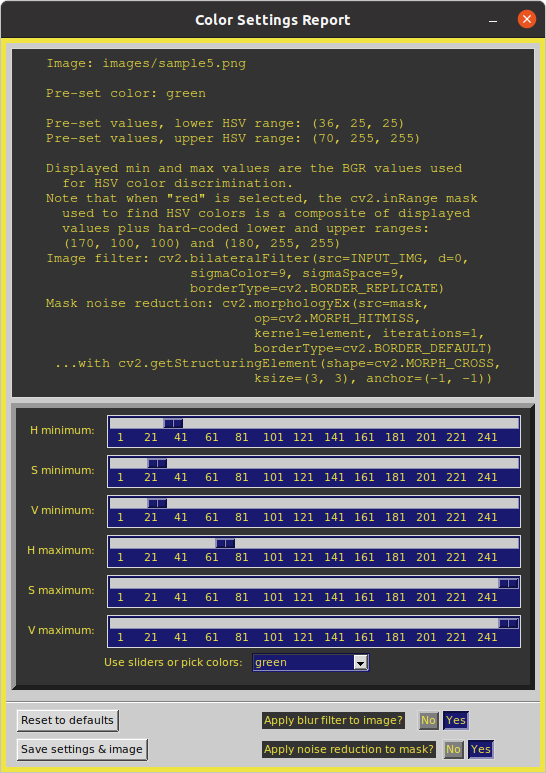
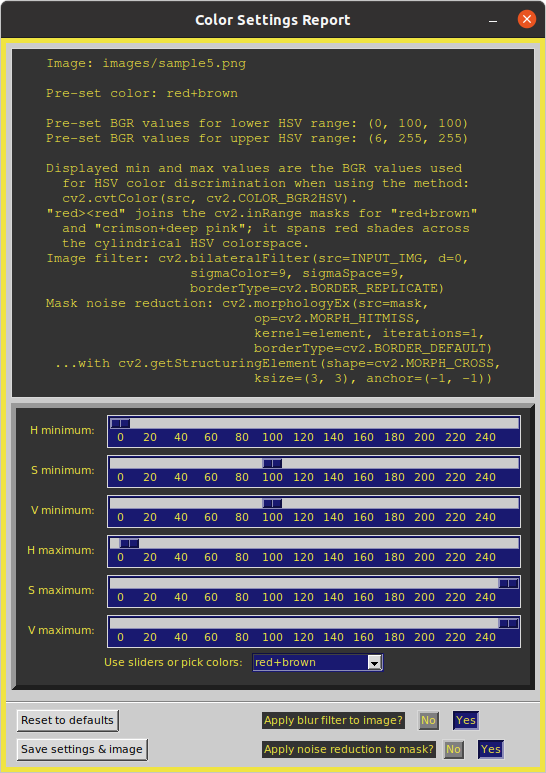
ver. 0.0.33: improve pre-set color discrimination

diff --git a/color_it.py b/color_it.py
@@ -175,8 +175,7 @@ class ProcessImage(tk.Tk):
             lower, upper = const.COLOR_BOUNDARIES[color2find]
             mask = cv2.inRange(self.hsv_img, lower, upper)
 
-            # Note that this 'red' selection includes a red-orange also
-            #  found by 'orange'.  Red color wraps around the HSV boundary,
+            # Red color wraps around the HSV boundary,
             #  so need to merge two range sets to include all likely reds,
             #  as explained in:
             # https://stackoverflow.com/questions/30331944/
@@ -184,12 +183,14 @@ class ProcessImage(tk.Tk):
             # and in:
             # https://answers.opencv.org/question/28899/
             #   correct-hsv-inrange-values-for-red-objects/
-            # The lower boundary set red is defined, now do the upper set
-            #   to straddle over the HSV red break and join the masks.
-            if color2find == 'red':
-                mask_red = cv2.inRange(self.hsv_img,
-                                       const.LOWER_RED, const.UPPER_RED)
-                mask = mask + mask_red
+            if color2find == 'red><red':
+                mask_red1 = cv2.inRange(self.hsv_img,
+                                        const.COLOR_BOUNDARIES['red+brown'][0],
+                                        const.COLOR_BOUNDARIES['red+brown'][1])
+                mask_red2 = cv2.inRange(self.hsv_img,
+                                        const.COLOR_BOUNDARIES['crimson+deep pink'][0],
+                                        const.COLOR_BOUNDARIES['crimson+deep pink'][1])
+                mask = mask_red1 + mask_red2
         else:  # using sliders
             mask = cv2.inRange(self.hsv_img,
                                self.lobound, self.hibound)
@@ -524,7 +525,7 @@ class ImageViewer(ProcessImage):
         self.cbox['choose_color_lbl'].config(text='Use sliders or pick colors:',
                                              **const.LABEL_PARAMETERS)
         self.cbox['choose_color'].config(textvariable=self.cbox_val['color_pref'],
-                                         width=14 + width_correction,
+                                         width=16 + width_correction,
                                          values=self.color_list,
                                          **const.COMBO_PARAMETERS)
         # Set to green at startup, or 1st color in list.
@@ -603,14 +604,14 @@ class ImageViewer(ProcessImage):
 
         # Set/Reset Scale widgets.
         #  Default color range is green.
-        self.slider_val['H_min'].set(36)
-        self.slider_val['S_min'].set(25)
-        self.slider_val['V_min'].set(25)
-        self.slider_val['H_max'].set(70)
+        self.slider_val['H_min'].set(0)
+        self.slider_val['S_min'].set(100)
+        self.slider_val['V_min'].set(100)
+        self.slider_val['H_max'].set(6)
         self.slider_val['S_max'].set(255)
         self.slider_val['V_max'].set(255)
 
-        self.cbox_val['color_pref'].set('green')
+        self.cbox_val['color_pref'].set('red+brown')
 
         self.radio['filter_yes'].select()
         self.radio['redux_yes'].select()
@@ -806,11 +807,11 @@ class ImageViewer(ProcessImage):
             f'Pre-set color: {selected_color}\n\n'
             f'{range_txt}\n'
             'Displayed min and max values are the BGR values used\n'
-            '  for HSV color discrimination.\n'
-            'Note that when "red" is selected, the cv2.inRange mask\n'
-            '  used to find HSV colors is a composite of displayed\n'
-            '  values plus hard-coded lower and upper ranges:\n'
-            f'  {const.LOWER_RED} and {const.UPPER_RED}\n'
+            '  for HSV color discrimination when using the method:\n'
+            '  cv2.cvtColor(src, cv2.COLOR_BGR2HSV).\n'
+            '"red><red" joins the cv2.inRange masks for "red+brown"\n'
+            '  and "crimson+deep pink"; it spans red shades across\n'
+            '  the cylindrical HSV colorspace.\n'
             f'Image filter: {filter_txt}\n'
             f'Mask noise reduction: {redux_txt}\n'
         )

diff --git a/contour_modules/constants.py b/contour_modules/constants.py
@@ -321,25 +321,25 @@ PANEL_RIGHT = dict(
 
 # Sets of BGR color values for converting to HSV color ranges.
 COLOR_BOUNDARIES = {
-    'red': ((0, 100, 100), (10, 255, 255)),  # the "light" set for HSV red.
-    'red+light pink': ((155, 50, 0), (179, 255, 255)),  # dark red & light pink/purples
-    'red+dark pink': ((155, 200, 0), (179, 255, 255)),  # only dark red
-    'red+purple': ((140, 50, 0), (180, 255, 255)),  # dark red, purple, darker pink/purple
-    'red+dark violet': ((140, 200, 0), (190, 255, 255)),  # only dark red and pure purple
-    'orange': ((1, 190, 200), (18, 255, 255)),
-    'light orange': ((1, 102, 102), (21, 255, 255)),
+    'red+brown': ((0, 100, 100), (6, 255, 255)),  # Also used for HSV red><red.
+    'red><red': ((0, 0, 0), (0, 0, 0)),  # Values are defined in find_colors().
+    'crimson+deep pink': ((170, 100, 100), (180, 255, 255)),  # Also used for HSV red><red.
+    'pink': ((155, 50, 120), (180, 255, 255)),
+    'deep pink': ((155, 200, 0), (180, 255, 255)),
+    'purple': ((130, 120, 160), (160, 240, 240)),
+    'orange': ((5, 190, 200), (18, 255, 255)),
+    'light orange': ((3, 102, 102), (20, 255, 255)),
     'yellow': ((20, 80, 80), (30, 255, 255)),
     'green': ((36, 25, 25), (70, 255, 255)),
     'green+cyan': ((50, 20, 20), (100, 255, 255)),
-    'blue': ((110, 150, 50), (120, 255, 255)),  # Deep true blues
-    'no true blue': ((80, 50, 45), (130, 200, 255)),  # Royal, turquoise, pale blue
-    'royal+slate': ((110, 50, 50), (130, 200, 255)),  # Mostly royal & slate (purplish)
-    'blue+cyan': ((80, 50, 45), (120, 255, 255)),  # Blue, turquoise, cyan, light blues
+    'blue': ((110, 150, 50), (120, 255, 255)),  # Deep true blues.
+    'blue+cyan': ((80, 50, 45), (120, 255, 255)),
     'royal blue': ((105, 150, 0), (129, 200, 250)),
-    'bold': ((1, 250, 1), (150, 255, 255)),
-    'vivid': ((0, 200, 0), (179, 255, 255)),
+    'royal+slate': ((110, 50, 50), (130, 200, 255)),
+    'bold': ((0, 250, 0), (150, 255, 255)),
+    'bold2': ((0, 200, 0), (180, 255, 255)),
     'earthtone': ((0, 14, 80), (120, 120, 225)),
-    'white': ((0, 0, 200), (125, 60, 255)),  # includes some blue shaded white
+    'white': ((0, 0, 200), (125, 60, 255)),  # Includes some blue shaded white.
     'midgray': ((0, 0, 75), (0, 0, 175)),
     'grays+white': ((0, 0, 0), (0, 0, 255)),
 }

diff --git a/contour_modules/__init__.py b/contour_modules/__init__.py
@@ -4,7 +4,7 @@ These constants are used with the --about command line argument or button.
 
 # Development status standards: https://pypi.org/classifiers/
 __author__ = 'Craig S. Echt'
-__version__: str = '0.0.32'
+__version__: str = '0.0.33'
 __status__ = 'Development Status :: 3 - Alpha'
 __copyright__ = 'Copyright (C) 2022-2023 C.S. Echt, under GNU General Public License'
 __license__ = """
